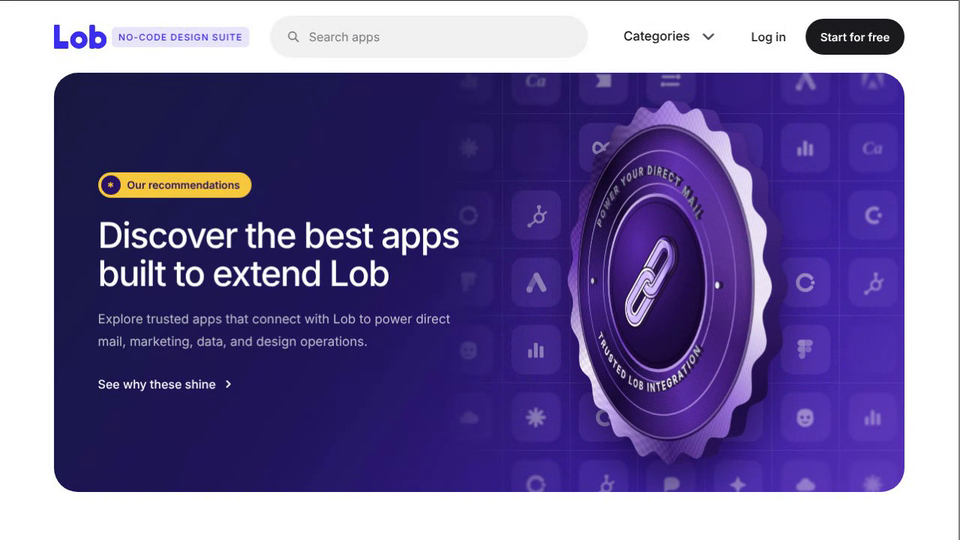
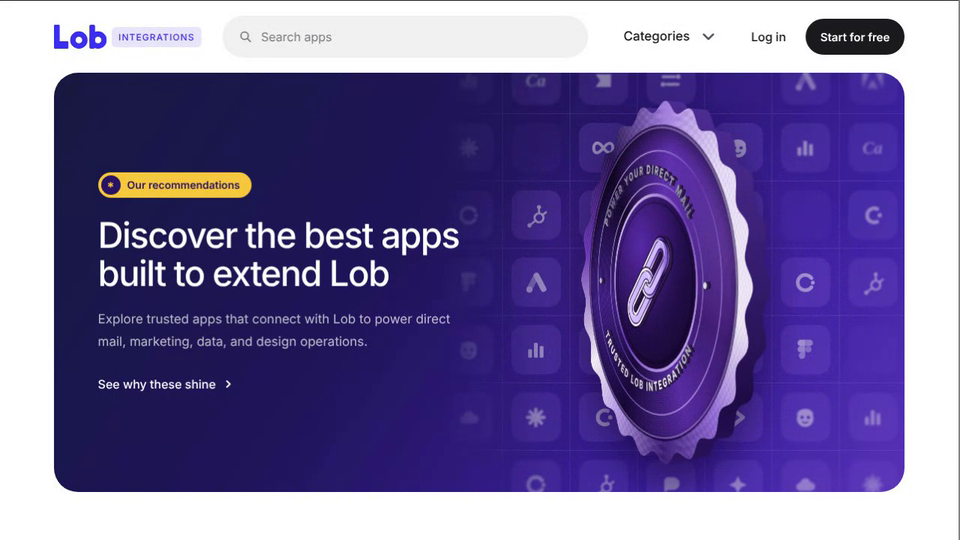
Lob Integrations Hero: label says Integrations
Claude-Session: https://claude.ai/code/session_01AHeBdw5Dmhovddhvfinq8X

Changed region(s): [[0.5938, 0.1778, 0.8438, 0.8593], [0.125, 0.0296, 0.4062, 0.0889]]

diff --git a/lob-integrations-hero/index.html b/lob-integrations-hero/index.html
@@ -110,7 +110,7 @@ h1{font-weight:500;font-size:clamp(27px,3.7vw,52px);line-height:1.08;letter-spac
 <nav class="back" aria-label="Sandbox"><a href="../">Sandbox</a><span>/</span><a href="../">Back to all projects</a><span>/</span><b>Lob Integrations Hero</b></nav>
 
 <header class="top">
-  <a class="brand" href="#" aria-label="Lob, No-Code Design Suite"><svg class="logo" viewBox="0 0 88 40" role="img" aria-label="Lob" fill="#3d2ff0"><path d="M1.5 1.5H8V29H22.5V38.5H1.5Z" stroke="#3d2ff0" stroke-width="3" stroke-linejoin="round"/><circle cx="41.5" cy="25.5" r="10" fill="none" stroke="#3d2ff0" stroke-width="9"/><rect x="59" y="0" width="9.5" height="40" rx="2.5"/><circle cx="73.5" cy="25.5" r="10" fill="none" stroke="#3d2ff0" stroke-width="9"/></svg><em>No-Code Design Suite</em></a>
+  <a class="brand" href="#" aria-label="Lob Integrations"><svg class="logo" viewBox="0 0 88 40" role="img" aria-label="Lob" fill="#3d2ff0"><path d="M1.5 1.5H8V29H22.5V38.5H1.5Z" stroke="#3d2ff0" stroke-width="3" stroke-linejoin="round"/><circle cx="41.5" cy="25.5" r="10" fill="none" stroke="#3d2ff0" stroke-width="9"/><rect x="59" y="0" width="9.5" height="40" rx="2.5"/><circle cx="73.5" cy="25.5" r="10" fill="none" stroke="#3d2ff0" stroke-width="9"/></svg><em>Integrations</em></a>
   <div class="search" role="search"><svg width="18" height="18" viewBox="0 0 20 20" fill="none" stroke="#7a7a82" stroke-width="2" stroke-linecap="round"><circle cx="8.5" cy="8.5" r="5.5"/><path d="m13 13 4 4"/></svg><span>Search apps</span></div>
   <div class="links">
     <a class="cat" href="#">Categories <svg width="12" height="12" viewBox="0 0 14 14" fill="none" stroke="#16161a" stroke-width="2" stroke-linecap="round" stroke-linejoin="round" style="margin-left:2px"><path d="m3 5 4 4 4-4"/></svg></a>
